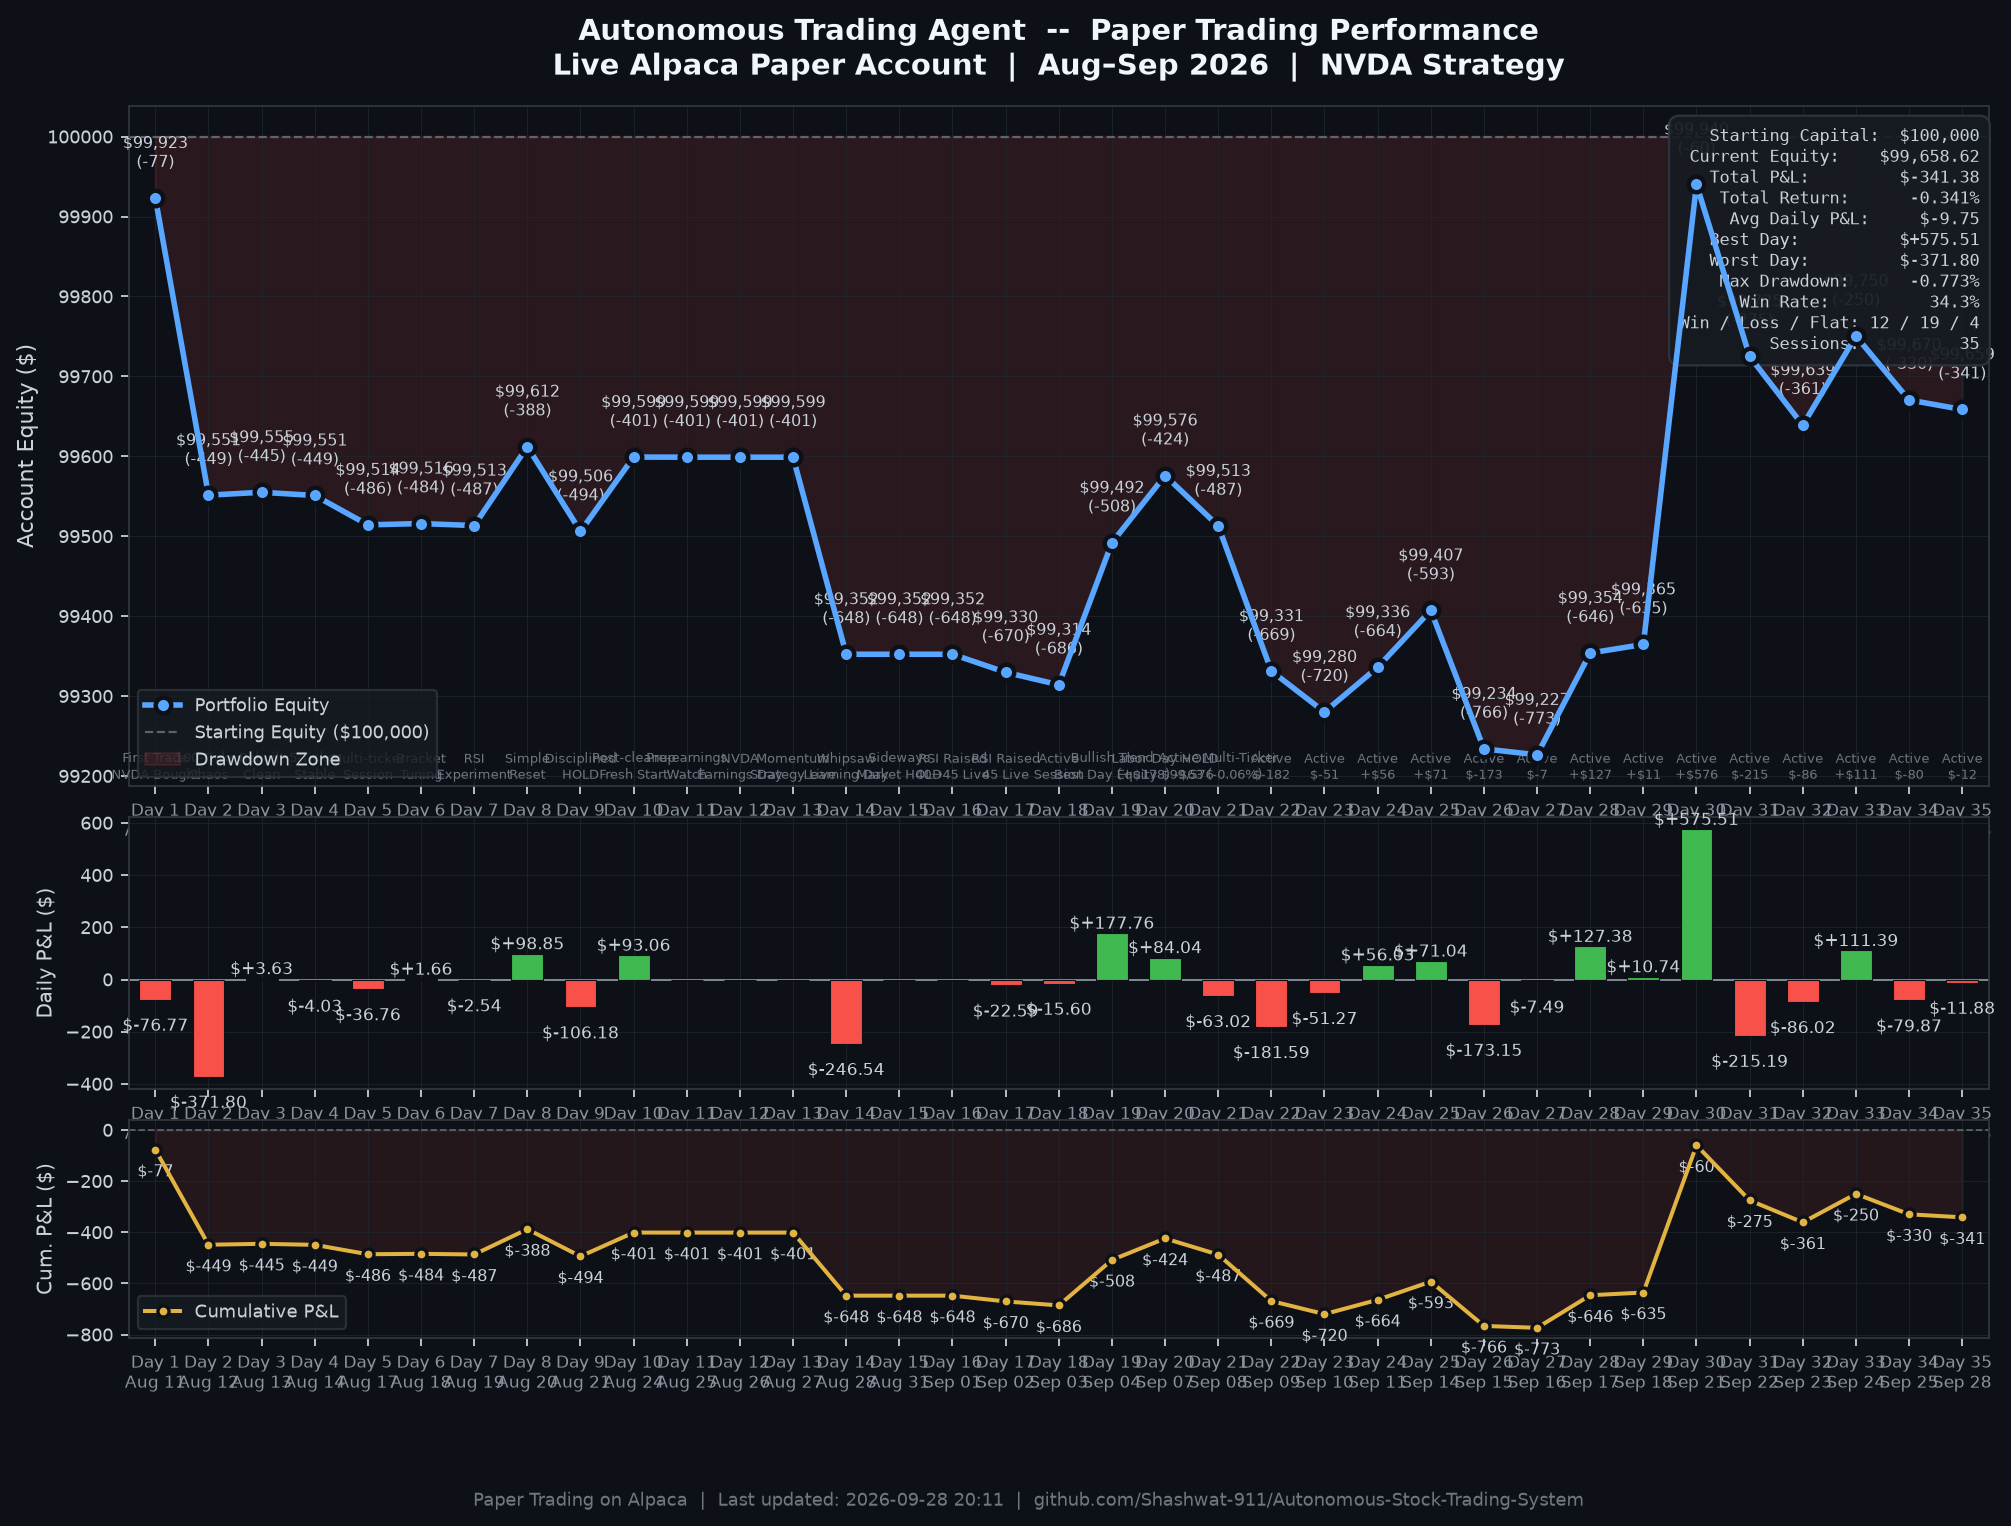
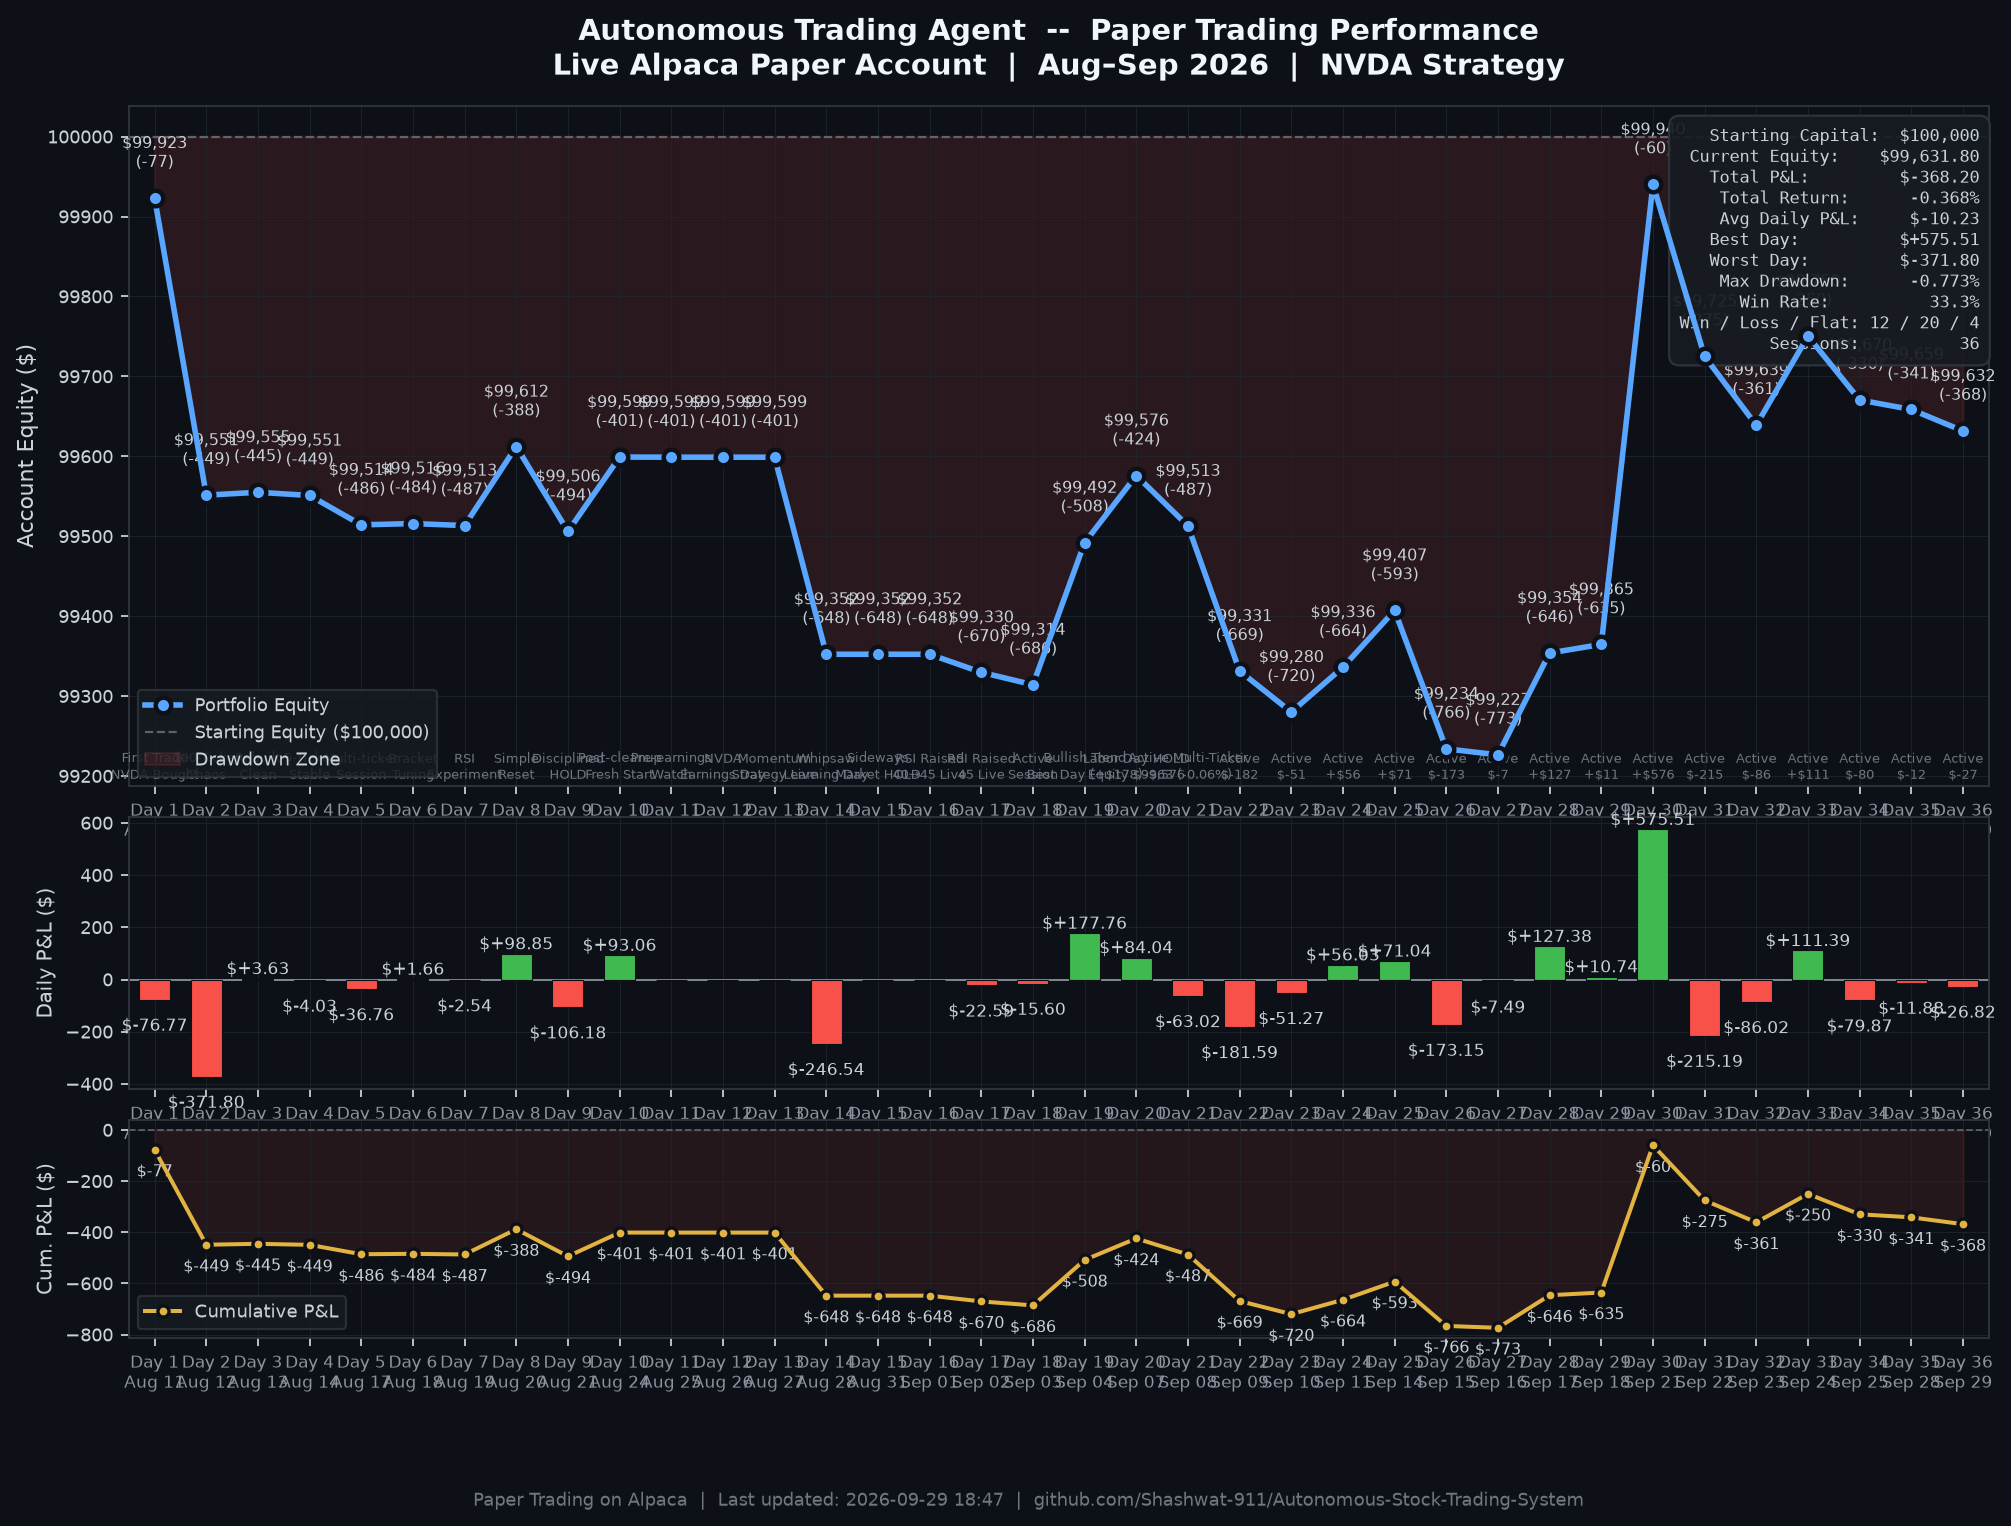
auto(session): 2026-09-29 | equity=$99,632 | return=-0.368%

diff --git a/README.md b/README.md
@@ -47,7 +47,7 @@ The automated trading bot is deployed in the cloud on Render with continuous mon
 
 > **Paper Trading on Alpaca** | Started: Aug 11, 2026 | Initial Capital: $100,000.00 | Universe: NVDA, TSLA, META, MSFT, AAPL (5-Stock High-Momentum Universe)
 
-![Daily P&L Chart](outputs/daily_pnl_chart.png?v=20260928)
+![Daily P&L Chart](outputs/daily_pnl_chart.png?v=20260929)
 
 *Chart auto-generated from live Alpaca Portfolio History API and verified session telemetry via [`scripts/generate_pnl_chart.py`](scripts/generate_pnl_chart.py).*
 
@@ -90,8 +90,9 @@ The automated trading bot is deployed in the cloud on Render with continuous mon
 | **Day 33** | Sep 24 (Thu) | $99,750.37 | **+$111.39** | -$249.63 | -0.250% | Profitable Session (+$111.39) |
 | **Day 34** | Sep 25 (Fri) | $99,670.50 | -$79.87 | -$329.50 | -0.330% | Active Session (-$79.87) |
 | **Day 35** | Sep 28 (Mon) | $99,658.62 | -$11.88 | -$341.38 | -0.341% | Active Session (-$11.88) |
+| **Day 36** | Sep 29 (Tue) | $99,631.80 | -$26.82 | -$368.20 | -0.368% | Active Session (-$26.82) |
 
-> **Current Equity**: $99,658.62 | **Total P&L**: $-341.38 | **Best Day**: $+575.51 | **Win Rate**: 34.3% (12W / 19L / 4 Flat) | **Max Drawdown**: -0.773% | **Sessions**: 35
+> **Current Equity**: $99,631.80 | **Total P&L**: $-368.20 | **Best Day**: $+575.51 | **Win Rate**: 33.3% (12W / 20L / 4 Flat) | **Max Drawdown**: -0.773% | **Sessions**: 36
 ---
 
 ## System Architecture
